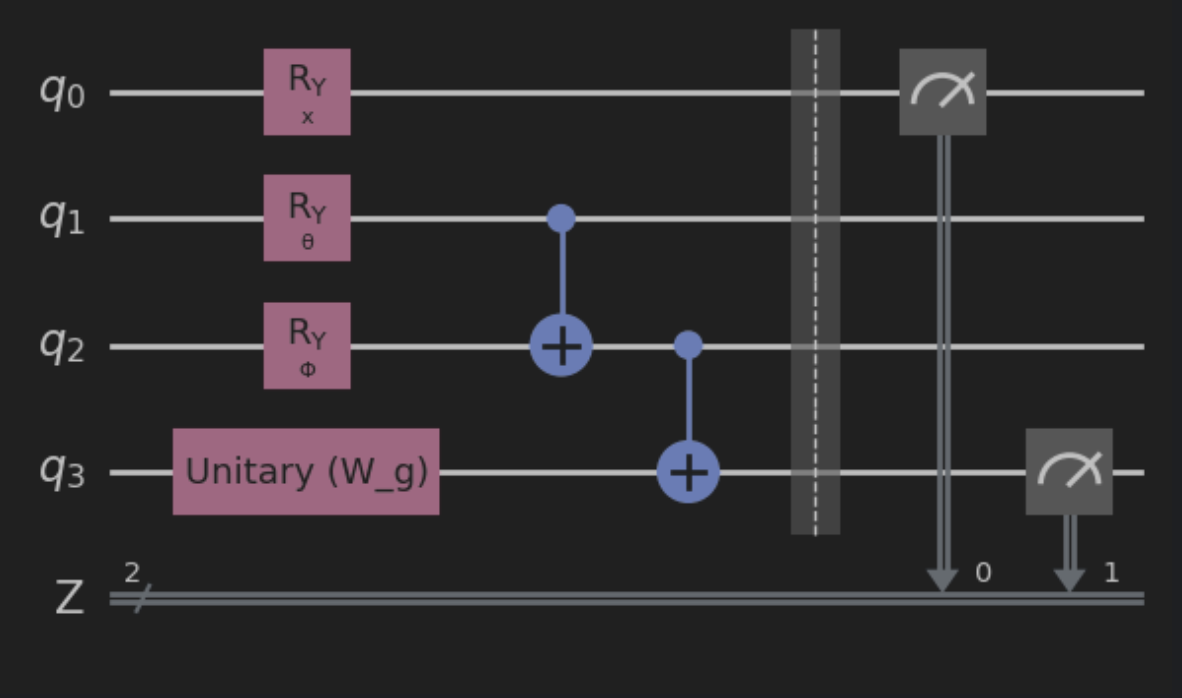
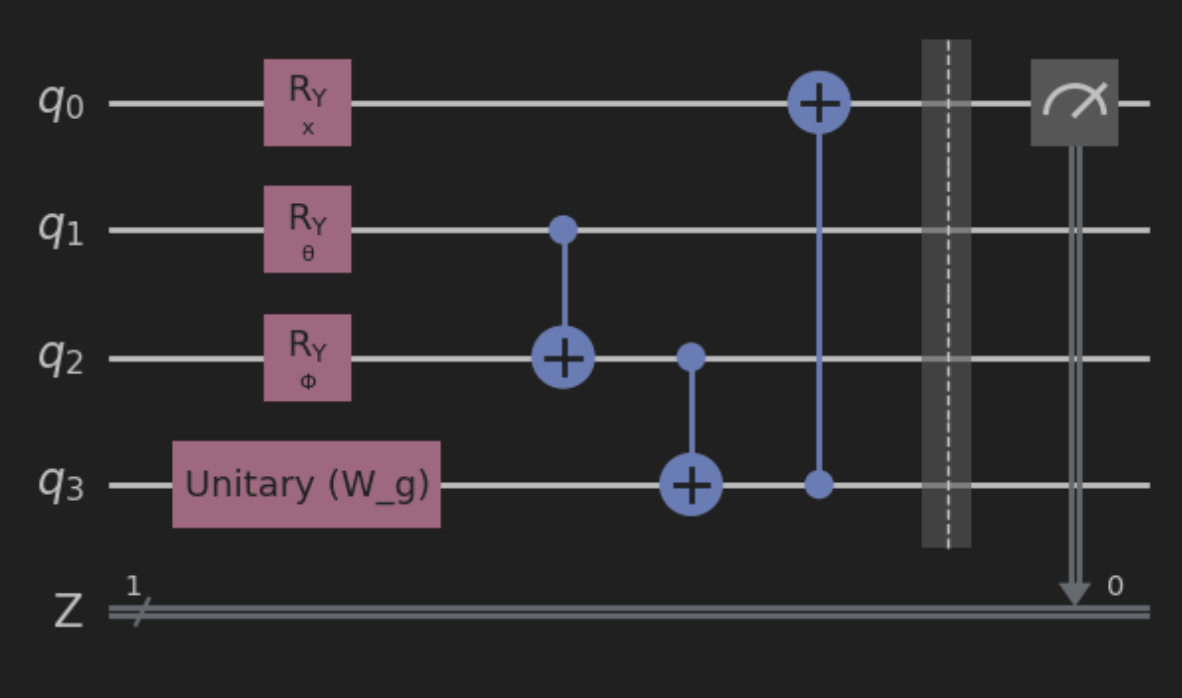
Implementation of HQCNN-QSA done (code working - not training cause slow)

Changed region(s): [[0.0305, 0.0301, 0.9746, 0.9026]]

diff --git a/mnist_digit_train.py b/mnist_digit_train.py
@@ -1,21 +1,33 @@
 import numpy as np
 import matplotlib.pyplot as plt
-import torch
-from torch import cat, no_grad, manual_seed
+from torch import manual_seed
+from torch.nn import CrossEntropyLoss
 from torch.utils.data import DataLoader
 from torchvision import datasets, transforms
 import torch.optim as optim
 
+from model import create_qsa_nn, HybridCNNQSA
 
 # -----------------------------------------------------------------------------
-# Train Dataset
+# Model
+# -----------------------------------------------------------------------------
+
+qsa_nn = create_qsa_nn()
+model = HybridCNNQSA(qsa_nn)
+
+print("----------------------------------------------")
+print("Hybrid CNN-QSA model Instantiated Successfully")
+print("----------------------------------------------")
+
+# -----------------------------------------------------------------------------
+# Dataset (Train)
 # -----------------------------------------------------------------------------
 
 # Set train shuffle seed (for reproducibility)
 manual_seed(42)
 
-batch_size = 1
-n_samples = 100  # We will concentrate on the first 100 samples
+batch_size = 10
+n_samples = 10
 
 # Use pre-defined torchvision function to load MNIST train data
 X_train = datasets.MNIST(
@@ -25,15 +37,43 @@ X_train = datasets.MNIST(
     transform=transforms.Compose([transforms.ToTensor()])
 )
 
-# Filter out labels (originally 0-9), leaving only labels 0 and 1
-idx = np.append(
-    np.where(X_train.targets == 0)[0][:n_samples],
-    np.where(X_train.targets == 1)[0][:n_samples]
-)
-X_train.data = X_train.data[idx]
-X_train.targets = X_train.targets[idx]
-
-# Define torch dataloader with filtered data
+# Define torch dataloader
 train_loader = DataLoader(X_train, batch_size=batch_size, shuffle=True)
 
+print("----------------------------------------------")
+print("Training Data Loaded Successfully")
+print("----------------------------------------------")
 
+# -----------------------------------------------------------------------------
+# Training - Model
+# -----------------------------------------------------------------------------
+
+print("----------------------------------------------")
+print("Training Model ...")
+print("----------------------------------------------")
+
+# Define model, optimizer, and loss function
+optimizer = optim.Adam(model.parameters(), lr=0.001)
+loss_func = CrossEntropyLoss()
+
+# Start training
+epochs = 2  # Set number of epochs
+loss_list = []  # Store loss history
+model.train()  # Set model to training mode
+
+for epoch in range(epochs):
+
+    total_loss = []
+
+    for batch_idx, (data, target) in enumerate(train_loader):
+
+        optimizer.zero_grad(set_to_none=True)  # Initialize gradient
+        output = model(data)  # Forward pass
+        loss = loss_func(output, target)  # Calculate loss
+        loss.backward()  # Backward pass
+        optimizer.step()  # Optimize weights
+        total_loss.append(loss.item())  # Store loss
+
+    loss_list.append(sum(total_loss) / len(total_loss))
+
+    print("Training [{:.0f}%]\tLoss: {:.4f}".format(100.0 * (epoch + 1) / epochs, loss_list[-1]))

diff --git a/model.py b/model.py
@@ -1,3 +1,5 @@
+from qiskit_machine_learning.neural_networks import SamplerQNN
+
 from quantum_self_attention import QuantumSelfAttention
 
 from torch import sum
@@ -12,10 +14,16 @@ from qiskit_machine_learning.connectors import TorchConnector
 
 from qiskit import QuantumCircuit
 from qiskit.circuit.library import ZZFeatureMap
-from qiskit_machine_learning.neural_networks import EstimatorQNN
+from qiskit_machine_learning.algorithms import VQC
 
 
 num_qubits = 4
+output_shape = 10  # Number of classes
+
+
+# Interpret for SamplerQNN
+def interpretation(x):
+    return f"{x:b}".count("1") % output_shape
 
 
 # Compose Quantum Self Attention Neural Network with Feature Map
@@ -24,19 +32,21 @@ def create_qsa_nn():
     feature_map = ZZFeatureMap(num_qubits)
 
     # Quantum Self Attention circuit
-    qsa = QuantumSelfAttention.get_circuit()
+    qsa = QuantumSelfAttention(num_qubits=num_qubits)
+    qsa_circuit = qsa.get_circuit()
 
     # QSA NN circuit
     qc = QuantumCircuit(num_qubits)
     qc.compose(feature_map, inplace=True)
-    qc.compose(qsa, inplace=True)
+    qc.compose(qsa_circuit, inplace=True)
 
     # REMEMBER TO SET input_gradients=True FOR ENABLING HYBRID GRADIENT BACKPROP
-    qsa_nn = EstimatorQNN(
-        circuit=qsa,
+    qsa_nn = SamplerQNN(
+        circuit=qc,
         input_params=feature_map.parameters,
         weight_params=qsa.circuit_parameters(),
-        input_gradients=True,
+        interpret=interpretation,
+        output_shape=output_shape,
     )
 
     return qsa_nn
@@ -51,10 +61,13 @@ class HybridCNNQSA(Module):
         self.dropout = Dropout2d()
         self.fc1 = Linear(256, 64)
         self.fc2 = Linear(64, 4)  # 4-dimensional input to QSA-NN
+
         # Apply torch connector, weights chosen
         # uniformly at random from interval [-1,1].
-        self.qnn = TorchConnector(qsa_nn)
-        self.output_layer = Linear(10, 2)  # 2-dimensional output from QSA-NN
+        self.qsa_nn = TorchConnector(qsa_nn)
+
+        # 1-dimensional output from QSA-NN
+        self.output_layer = Linear(10, 10)
 
     def forward(self, x):
         x = F.relu(self.conv1(x))
@@ -67,5 +80,4 @@ class HybridCNNQSA(Module):
         x = self.fc2(x)
         x = self.qsa_nn(x)  # apply QSA-NN
         x = self.output_layer(x)
-        x = sum(x, dim=0)  # Element-wise sum of the QSA-NN output
         return x

diff --git a/quantum_self_attention.py b/quantum_self_attention.py
@@ -41,6 +41,9 @@ class QuantumSelfAttention:
         # Entanglement using CNOT gate - Tensor Product (gaussian and linear)
         self.circuit.cx(2, 3)
 
+        # Entanglement using CNOT gate - (to replicate Element-wise Sum (X and embedding output))
+        self.circuit.cx(3, 0)
+
     def circuit_parameters(self):
         # Set parameters
         self.parameters = {self.x, self.theta, self.phi}
@@ -49,4 +52,3 @@ class QuantumSelfAttention:
 
     def get_circuit(self):
         return self.circuit
-

diff --git a/README.md b/README.md
@@ -1,12 +1,12 @@
 # Hybrid Quantum-Classical Self-Attention
 
-Sample Quantum Self-Attention Variational Circuit:
+Quantum Self-Attention Variational Circuit:
 
-![QuantumSelfAttention_Circuit.png](docs%2FQuantumSelfAttention_Circuit.png)
+<img src="docs/QuantumSelfAttention_Circuit.png" alt="Quantum Self-Attention Circuit" width="500"/>
 
 
-### Reference
+### References
 
-Classical Self-Attention Mechanism from paper (Fig. 2): https://arxiv.org/pdf/1711.07971.pdf
+[1] Classical Self-Attention Mechanism from paper (Fig. 2): https://arxiv.org/pdf/1711.07971.pdf
 
-![Reference_ClassicalSelfAttention.png](docs%2FReference_ClassicalSelfAttention.png)
+<img src="docs/Reference_ClassicalSelfAttention.png" alt="Classical Self-Attention Reference" width="400"/>
